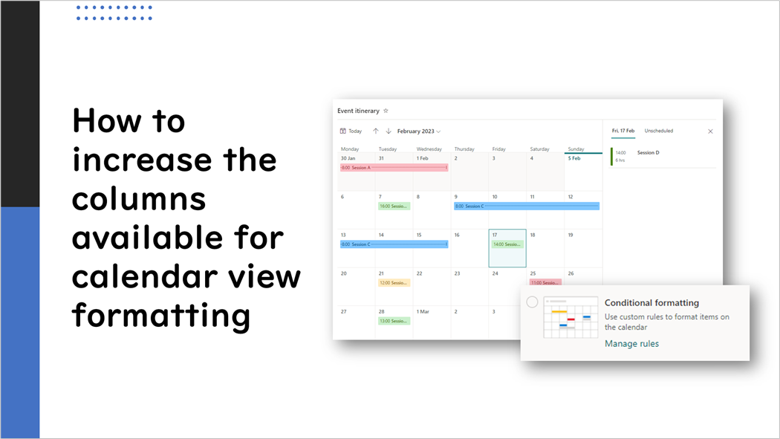
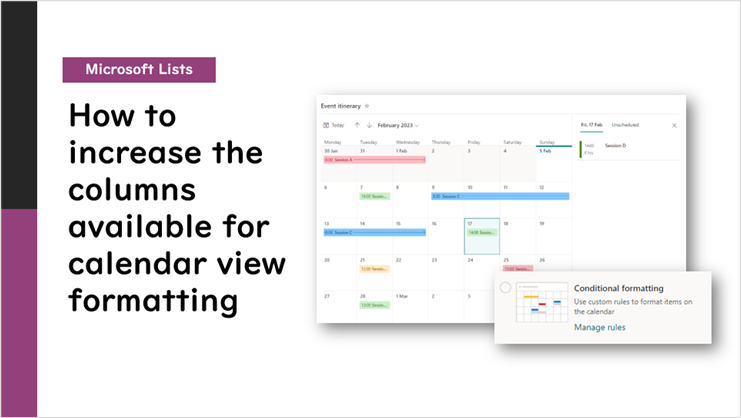
Added product name to image and title

diff --git a/content/post/how-to-increase-the-columns-available-for-calendar-view-formatting/index.md b/content/post/how-to-increase-the-columns-available-for-calendar-view-formatting/index.md
@@ -1,5 +1,5 @@
 ---
-title: "How to increase the columns available for calendar view formatting"
+title: "[Microsoft Lists] How to increase the columns available for calendar view formatting"
 date: 2023-02-06T00:00:00-00:00
 author: "Tetsuya Kawahara"
 githubname: tecchan1107
